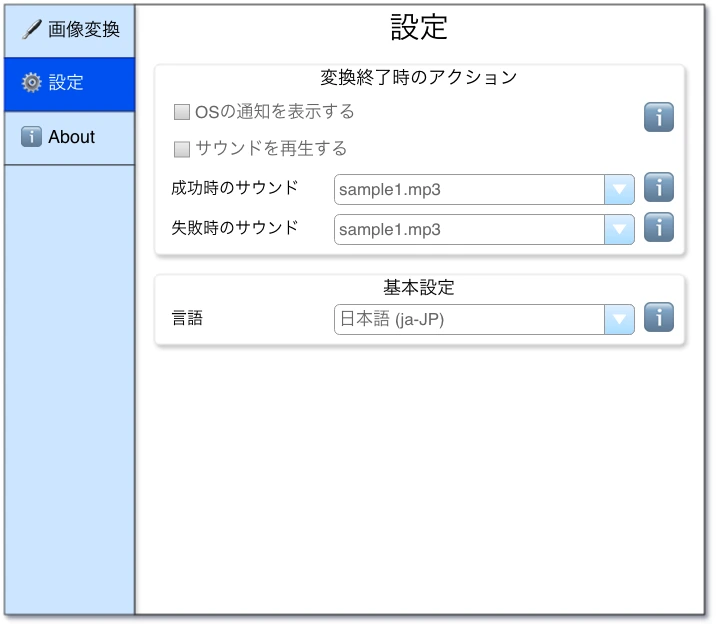
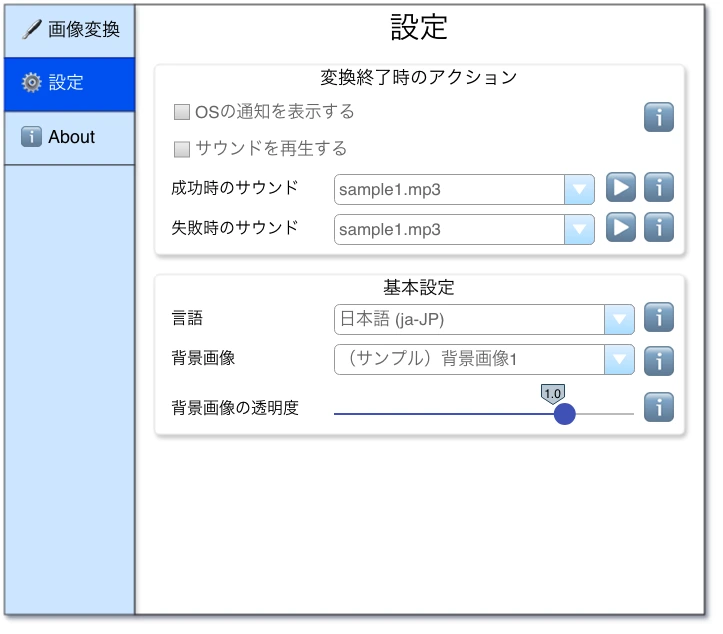
docs: 背景画像の新仕様を反映し、壁紙アセットを整理
- assets/images/wallpaper[1-3].jpg を assets/images/wallpaper/ 配下へ移動
- pubspec.yaml / AppConstants.wallpaperAsset を新パスに更新
- docs/design/feature/settings.md に背景画像・透明度の仕様を追記
- README にユーザー背景画像の配置方法を追記
- docs/design/feature/images/画面構成-設定.webp を更新
- AppConstants.wallpaperOpacity のデフォルトを 0.4 に変更
- AGENTS.md に git 操作の禁止事項を追記

壁紙設定は settings.json に保存される仕様に準拠

Changed region(s): [[0.213, 0.5394, 0.9737, 0.7192], [0.7607, 0.2697, 0.8824, 0.3896]]

diff --git a/lib/core/constants/app_constants.dart b/lib/core/constants/app_constants.dart
@@ -48,13 +48,13 @@ class AppConstants {
 
   /// 壁紙アセットのパス。
   ///
-  /// `assets/images/` 配下の壁紙画像を指定する。変更時は `pubspec.yaml` の
+  /// `assets/images/wallpaper/` 配下の壁紙画像を指定する。変更時は `pubspec.yaml` の
   /// `flutter.assets` も合わせて更新すること。
-  static const String wallpaperAsset = 'assets/images/wallpaper3.jpg';
+  static const String wallpaperAsset = 'assets/images/wallpaper/wallpaper1.jpg';
 
   /// 壁紙の不透明度 (0.0: 透明 〜 1.0: 不透明)。
   ///
   /// `HomeShell` の背景画像に適用される。値を下げると壁紙が薄くなり、
   /// Liquid Glass の視認性が上がる。
-  static const double wallpaperOpacity = 1.0;
+  static const double wallpaperOpacity = 0.4;
 }

diff --git a/docs/design/feature/settings.md b/docs/design/feature/settings.md
@@ -118,3 +118,52 @@
 #### ℹ
 - ホバーするとpopoverに説明が表示される。
 - 「出力先に既に同一のファイル名が存在する場合、上書きコピーされます。」というテキストが記述されていること。
+
+### ✏ 背景画像
+
+#### 静的ラベル
+
+- `背景画像` という静的ラベルを表示します。
+
+##### プルダウンの選択肢の表示仕様
+
+| 種別             | パス                                           |
+|----------------|----------------------------------------------|
+| 同梱の背景画像        | `assets/images/wallpaper/wallpaper[1-3].jpg` |
+| ユーザーが配置した背景画像  | `.config/tree-image-optimizer/wallpaper`     |
+
+- 上記をまとめてプルダウンに表示します。
+- プルダウン選択肢の表示は特殊で、以下のように上部に同梱サウンドを、その後にユーザーサウンドを表示します。
+  ```
+  同梱背景画像1.jpg
+  同梱背景画像2.jpg
+  ユーザー背景画像1.jpg
+  ユーザー背景画像2.png
+  ```
+- 同梱背景画像もユーザー背景画像もファイル名を照準でソートします。
+- 選択肢の項目名は `ファイル名` を表示します。
+  - 同梱背景画像の場合だけ、 `（サンプル）xxx.jpg` という形式で、 `（サンプル）` をファイル名のprefixにしてください。
+  - ユーザー背景画像の場合は `ファイル名` を表示します。
+- 対応している拡張子は以下です。
+  - `.jpg`
+  - `.png`
+- ユーザー背景画像が `存在しない` または `権限不足で参照できない` 場合、 `同梱背景画像1` にフォールバックします。
+
+#### ℹ
+- ホバーするとpopoverに説明が表示される。
+- 以下のテキストが記述されていること。
+  ```
+  .config/tree-image-optimizer/wallpaper 配下に背景画像ファイルを配置すると、自分が用意したファイルを選択することができます。
+  ```
+
+### ✏ 背景画像の透明度
+
+#### 静的ラベル
+
+- `背景画像の透明度` という静的ラベルを表示します。
+
+#### 背景画像の透明度スライダー
+
+- 最小 = `0.0` 、 最大 = `1.0` です。
+- 初期値は `1.0` です。
+- この数値は `Opacity` の値です。

diff --git a/README.md b/README.md
@@ -33,3 +33,8 @@
 #### 失敗時のサウンド
 
 - `~/.config/tree-image-optimizer/sounds/error` に、ユーザーが用意したサウンドファイルを配置すると、アプリケーションで選択可能になります。
+
+### ユーザーが用意した背景画像を配置する
+
+- ユーザー背景画像ファイルは、アプリケーションを再起動すると読み込まれます。
+- `~/.config/tree-image-optimizer/wallpaper` に、ユーザーが用意した背景画像ファイルを配置すると、アプリケーションで選択可能になります。

diff --git a/AGENTS.md b/AGENTS.md
@@ -31,3 +31,4 @@
 ## 禁止事項
 - .envファイルの内容をコミット・表示しないこと。
 - 既存のテストを削除しないこと。
+- こちらからの指示が無い場合はgitの操作は行わないこと。
